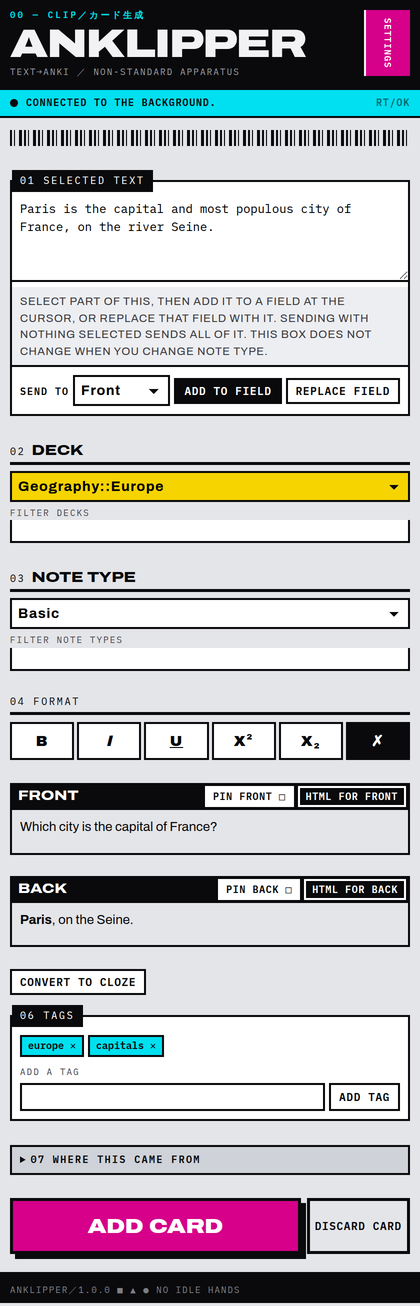
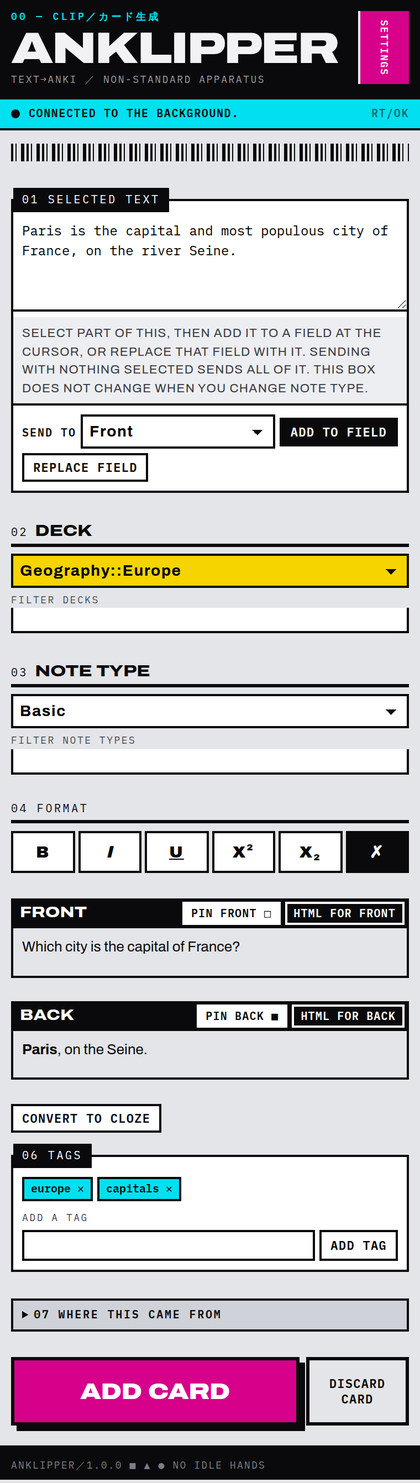
feat(preview): render the sidebar outside the browser, one scene per state
The skin was written and reviewed without anyone having seen it: the
sidepanel needs an extension host to mount, so the only way to look at it
was to load the extension into Firefox. Rendering it once — to check the
fonts and take the README's screenshot — turned up the permission wall the
previous commit fixed, which is a fair argument for being able to do it
again.

`preview/` is that, kept. `pnpm run preview` serves the real Panel against
the in-memory port fakes, with the skin and the vendored fonts loaded.
Nothing is stubbed and no extension host is faked, because the sidebar does
not need one: P3 keeps every browser.* call behind a port, so what is left
mounts like any other Svelte component. If that ever stops being true this
page is the first thing to break, which is a second reason to keep it.

Seven scenes, chosen so each renders differently rather than merely reading
differently — a captured card, first run, cloze markup, a four-field note
type, a second selection waiting, the host permission never granted, and
the background not answering. All seven render with no console error and
Archivo loaded.

Details:

- Vite's publicDir points at the extension's own public/, so /fonts/... in
  tdr.css resolves here exactly as it does in the packaged extension,
  rather than the fonts being copied into place by hand.
- The build goes to .output/preview/, which is already ignored.
- preview/ joins entrypoints/ in the TDD gate's exemptions: it is an
[…]

diff --git a/preview/scenes.ts b/preview/scenes.ts
@@ -1,0 +1,159 @@
+import { createDraft } from "@/core/draft";
+import type { CardDraft } from "@/core/draft";
+import { createFakeAnkiClient } from "@/core/ports/fakes/fake-anki-client";
+import { createFakeDraftStore } from "@/core/ports/fakes/fake-draft-store";
+import { createFakeRememberedStore } from "@/core/ports/fakes/fake-remembered-store";
+import type { AnkiError } from "@/core/ports/types";
+import { BASIC, CLOZE, RECIPE, VOCAB } from "@/fixtures/note-types";
+import type { DraftStatus, SidebarStatus } from "@/sidebar/connect";
+import type Panel from "@/sidebar/Panel.svelte";
+import type { ComponentProps } from "svelte";
+
+type PanelProps = ComponentProps<typeof Panel>;
+
+function draftOf(
+  overrides: Partial<Parameters<typeof createDraft>[0]> = {},
+): CardDraft {
+  return createDraft({
+    deck: "Geography::Europe",
+    noteType: BASIC,
+    fields: {
+      Front: "Which city is the capital of France?",
+      Back: "<b>Paris</b>, on the Seine.",
+    },
+    tags: ["europe", "capitals"],
+    scratch:
+      "Paris is the capital and most populous city of France, on the river Seine.",
+    source: {
+      text: "Paris is the capital and most populous city of France.",
+      context: "France is a country in Western Europe.",
+      url: "https://example.test/wiki/Paris",
+      title: "Paris — Example Encyclopedia",
+      heading: "Cities",
+    },
+    createdAt: "2026-01-01T12:00:00.000Z",
+    generation: { name: "basic", version: 1 },
+    ...overrides,
+  });
+}
+
+/** A collection with enough in it that the filters and long names show. */
+function collection(failure?: AnkiError) {
+  const client = createFakeAnkiClient({
+    decks: ["Default", "Geography::Europe", "Languages::French::Vocabulary"],
+    noteTypes: [BASIC, VOCAB, CLOZE, RECIPE],
+    tags: ["europe", "capitals", "geography", "politics", "revolutions"],
+  });
+  if (failure !== undefined) client.failWith(failure);
+  return client;
+}
+
+function panel(
+  draft: CardDraft | undefined,
+  options: {
+    readonly status?: SidebarStatus;
+    readonly pending?: CardDraft;
+    readonly failure?: AnkiError;
+  } = {},
+): PanelProps {
+  const status: SidebarStatus = options.status ?? {
+    kind: "connected",
+    from: "background",
+  };
+  const capture: DraftStatus =
+    draft === undefined
+      ? { kind: "empty" }
+      : { kind: "captured", draft, pending: options.pending };
+
+  return {
+    connect: async () => status,
+    loadDraft: async () => capture,
+    subscribe: () => () => {},
+    openSettings: () => {},
+    anki: collection(options.failure),
+    drafts: createFakeDraftStore(draft),
+    pending: createFakeDraftStore(options.pending),
+    remembered: createFakeRememberedStore({
+      lastDeck: "Geography::Europe",
+      // Keyed by note type, then by field (10.6) — so the pin shows filled
+      // on Basic's Back and nowhere else.
+      sticky: { Basic: { Back: "<i>Example Encyclopedia</i>" } },
+    }),
+    version: "1.0.0",
+    grantAccess: async () => {
+      // Nothing here can grant anything — the point is the button, and what
+      // the panel looks like while it is on screen.
+      window.alert("The real one asks the browser. This one cannot.");
+      return false;
+    },
+  };
+}
+
+/**
+ * The states worth looking at when the skin changes. Each is one URL:
+ * `?scene=empty`. Keep them to states the CSS renders differently — a scene
+ * that only differs in wording proves nothing a test does not already hold.
+ */
+export const SCENES: Record<string, { label: string; props: PanelProps }> = {
+  card: { label: "A captured card", props: panel(draftOf()) },
+  empty: { label: "Nothing captured yet", props: panel(undefined) },
+  cloze: {
+    label: "A cloze note type",
+    props: panel(
+      draftOf({
+        noteType: CLOZE,
+        fields: {
+          Text: "The capital of France is {{c1::Paris}}, on the {{c2::Seine}}.",
+          "Back Extra": "",
+        },
+      }),
+    ),
+  },
+  long: {
+    label: "A note type with many fields",
+    props: panel(
+      draftOf({
+        noteType: RECIPE,
+        fields: {
+          Title: "Soupe à l’oignon",
+          Ingredients: "Onions, butter, stock, bread, Gruyère.",
+          Method: "Caramelise the onions slowly. Do not rush this part.",
+          "Applies to": "",
+        },
+      }),
+    ),
+  },
+  waiting: {
+    label: "A second selection waiting",
+    props: panel(draftOf(), {
+      pending: draftOf({
+        createdAt: "2026-01-01T12:05:00.000Z",
+        source: {
+          text: "Lyon is the third-largest city in France.",
+          context: "France is a country in Western Europe.",
+          url: "https://example.test/wiki/Lyon",
+          title: "Lyon — Example Encyclopedia",
+          heading: "Cities",
+        },
+      }),
+    }),
+  },
+  permission: {
+    label: "The host permission never granted",
+    props: panel(draftOf(), {
+      failure: {
+        kind: "permission-missing",
+        message: "no host permission for http://127.0.0.1:8765",
+      },
+    }),
+  },
+  offline: {
+    label: "The background not answering",
+    props: panel(draftOf(), {
+      status: { kind: "unavailable", reason: "no-receiver" },
+      failure: { kind: "anki-not-running", message: "nothing answered" },
+    }),
+  },
+};
+
+export const DEFAULT_SCENE = "card";

diff --git a/preview/vite.config.ts b/preview/vite.config.ts
@@ -1,0 +1,23 @@
+import { svelte } from "@sveltejs/vite-plugin-svelte";
+import { resolve } from "node:path";
+import { defineConfig } from "vite";
+
+const REPO = resolve(import.meta.dirname, "..");
+
+/**
+ * The skin preview (see the developer guide, *Looking at the sidebar*).
+ *
+ * Not a WXT build: the sidebar is browser-free by construction — P3 keeps
+ * every `browser.*` call behind a port — so the panel mounts on the in-memory
+ * fakes with nothing shimmed. That is what makes this twenty lines rather
+ * than a fake extension host.
+ */
+export default defineConfig({
+  root: import.meta.dirname,
+  plugins: [svelte()],
+  // The same directory the extension bundle is built from, so `/fonts/…` in
+  // `tdr.css` resolves here exactly as it does in the packaged extension.
+  publicDir: resolve(REPO, "public"),
+  resolve: { alias: { "@": resolve(REPO, "src") } },
+  build: { outDir: resolve(REPO, ".output/preview"), emptyOutDir: true },
+});

diff --git a/preview/main.ts b/preview/main.ts
@@ -1,0 +1,29 @@
+import { mount } from "svelte";
+
+import Panel from "@/sidebar/Panel.svelte";
+
+import { DEFAULT_SCENE, SCENES } from "./scenes";
+
+import "@/entrypoints/sidepanel/tdr.css";
+import "./preview.css";
+
+const wanted = new URLSearchParams(window.location.search).get("scene");
+const name = wanted !== null && wanted in SCENES ? wanted : DEFAULT_SCENE;
+
+const picker = document.getElementById("scenes");
+if (picker !== null) {
+  for (const [key, scene] of Object.entries(SCENES)) {
+    const link = document.createElement("a");
+    link.href = `?scene=${key}`;
+    link.textContent = scene.label;
+    if (key === name) link.setAttribute("aria-current", "page");
+    picker.append(link);
+  }
+}
+
+const target = document.getElementById("app");
+if (target === null) throw new Error("preview: #app missing");
+
+document.title = `Anklipper — ${SCENES[name]!.label}`;
+
+mount(Panel, { target, props: SCENES[name]!.props });

diff --git a/preview/preview.css b/preview/preview.css
@@ -1,0 +1,36 @@
+/*
+ * The picker only. Everything inside `#app` is the skin's, and the skin is
+ * scoped to `#app` — so nothing here can reach it, which is the point.
+ */
+body {
+  margin: 0;
+  background: #4a4d55;
+}
+
+#scenes {
+  display: flex;
+  flex-wrap: wrap;
+  gap: 2px;
+  padding: 6px;
+  font:
+    400 11px/1 ui-monospace,
+    monospace;
+}
+
+#scenes a {
+  padding: 5px 8px;
+  background: #e4e5e8;
+  color: #0a0a0c;
+  text-decoration: none;
+}
+
+#scenes a[aria-current="page"] {
+  background: #e6007e;
+  color: #fff;
+}
+
+/* The sidebar is narrow, and a skin checked at desktop width is not checked. */
+#app {
+  width: 380px;
+  margin: 0 auto;
+}

diff --git a/preview/index.html b/preview/index.html
@@ -1,0 +1,13 @@
+<!doctype html>
+<html lang="en">
+  <head>
+    <meta charset="utf-8" />
+    <meta name="viewport" content="width=device-width, initial-scale=1" />
+    <title>Anklipper — skin preview</title>
+  </head>
+  <body>
+    <nav id="scenes"></nav>
+    <div id="app"></div>
+    <script type="module" src="/main.ts"></script>
+  </body>
+</html>

diff --git a/preview/svelte.config.js b/preview/svelte.config.js
@@ -1,0 +1,3 @@
+import { vitePreprocess } from "@sveltejs/vite-plugin-svelte";
+
+export default { preprocess: vitePreprocess() };

diff --git a/docs/developer-guide.md b/docs/developer-guide.md
@@ -179,6 +179,8 @@ On disk:
   panel, add — with only AnkiConnect mocked.
 - `public/` — copied verbatim to the bundle root, so an absolute `/fonts/…`
   in CSS resolves at runtime. Holds the vendored fonts; see *Fonts* below.
+- `preview/` — the sidebar rendered outside the browser, for looking at.
+  See *Looking at the sidebar*.
 
 Tests sit beside the module they cover. ESLint enforces the bottom of the
 dependency stack: `src/core/`, `src/manifest/`, and `src/messaging/` may not
@@ -239,6 +241,47 @@ font: `Archivo-OFL.txt` and `IBMPlex-OFL.txt` sit next to them in
 `tests/assets/font-assets.test.ts` pins the three references in the stylesheet
 to real WOFF2 files. Without it a missing font is silent — there is no failing
 request to notice, just `font-display: swap` settling on Helvetica.
+
+## Looking at the sidebar
+
+```bash
+pnpm run preview
+```
+
+That serves the real `Panel` — the same component the extension mounts —
+against the in-memory port fakes, with the skin and the vendored fonts
+loaded. Nothing is stubbed and no extension host is faked, because the
+sidebar does not need one: P3 keeps every `browser.*` call behind a port, so
+what is left compiles and mounts like any other Svelte component. If that
+ever stops being true, this page is the first thing that breaks, which is a
+second reason to keep it.
+
+Scenes are URLs, and the links across the top switch between them:
+
+| Scene | What it is for |
+| --- | --- |
+| `?scene=card` | The ordinary case: a captured card, mid-edit |
+| `?scene=empty` | First run — the sidebar open before anything is captured |
+| `?scene=cloze` | Cloze markup, its ordinal controls, and **Mark selection** |
+| `?scene=long` | A note type with four fields, in the collection's order |
+| `?scene=waiting` | A second selection waiting behind an open card (7.4) |
+| `?scene=permission` | The host permission never granted — **Allow access to Anki** |
+| `?scene=offline` | The background not answering: `RT/NO`, and a retry |
+
+Add one in `preview/scenes.ts` when a CSS change turns on a state none of
+these reach. Keep them to states that *render* differently — a scene that
+differs only in wording proves nothing a component test does not already
+hold, and `preview/` is exempt from the TDD gate precisely because it is a
+viewer, not behaviour. Anything with logic in it belongs in `src/` with a
+test.
+
+`pnpm run preview:build` writes the same page to `.output/preview/` if you
+want to serve it somewhere. The README's screenshot is the `card` scene with
+the scene picker removed.
+
+Two things it cannot show you, because they are the browser's: the sidebar's
+real width in Firefox's own chrome, and anything that depends on a live
+AnkiConnect. *Checking it in Firefox* is still what signs work off.
 
 ## Commit and CI gates
 

diff --git a/docs/archive/13-add-css.md b/docs/archive/13-add-css.md
@@ -32,8 +32,10 @@ Landed on `feat/design`, not `feat/tdr-skin`. What differed from the plan:
   two the plan flagged.
 - **§5 design reference** — `Anklipper Sidebar.dc.html` is not in the
   repository, so the comparison was made against a render of the real panel
-  instead: the built `Panel` mounted on the port fakes, driven in Chromium.
-  That render is `docs/images/sidebar.png`, and it is what the README shows.
+  instead: the real `Panel` mounted on the port fakes. That grew into
+  `preview/`, which is now how the sidebar is looked at without a browser —
+  seven scenes, one per state the CSS renders differently. The `card` scene
+  is what `docs/images/sidebar.png` and the README show.
 
 Two things landed on the same branch that the plan did not ask for, because
 the render made them visible: the sidebar had no way to grant the Anki host
